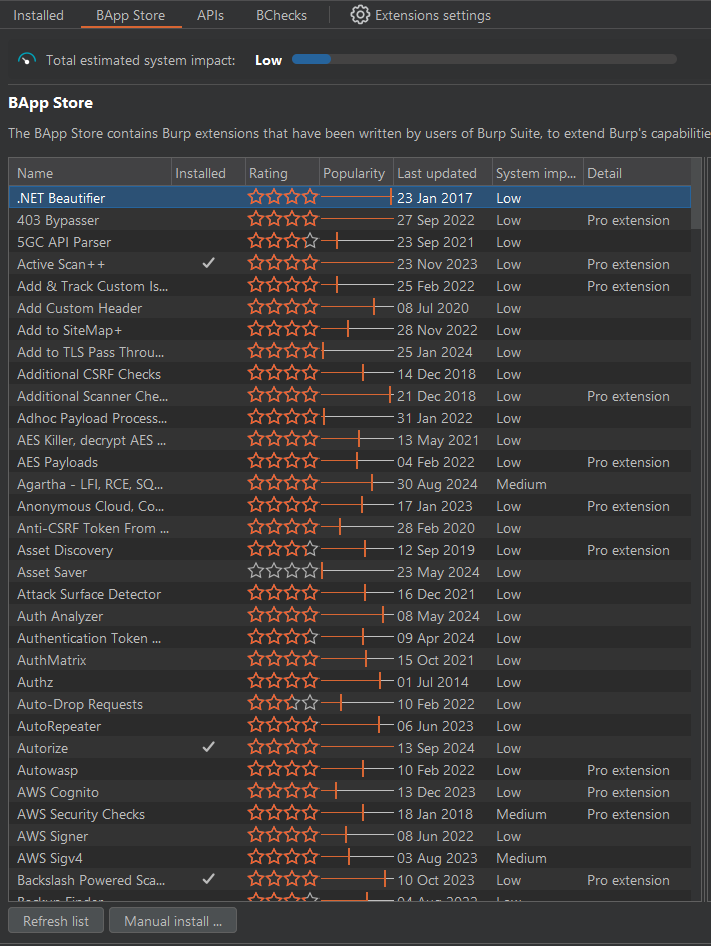
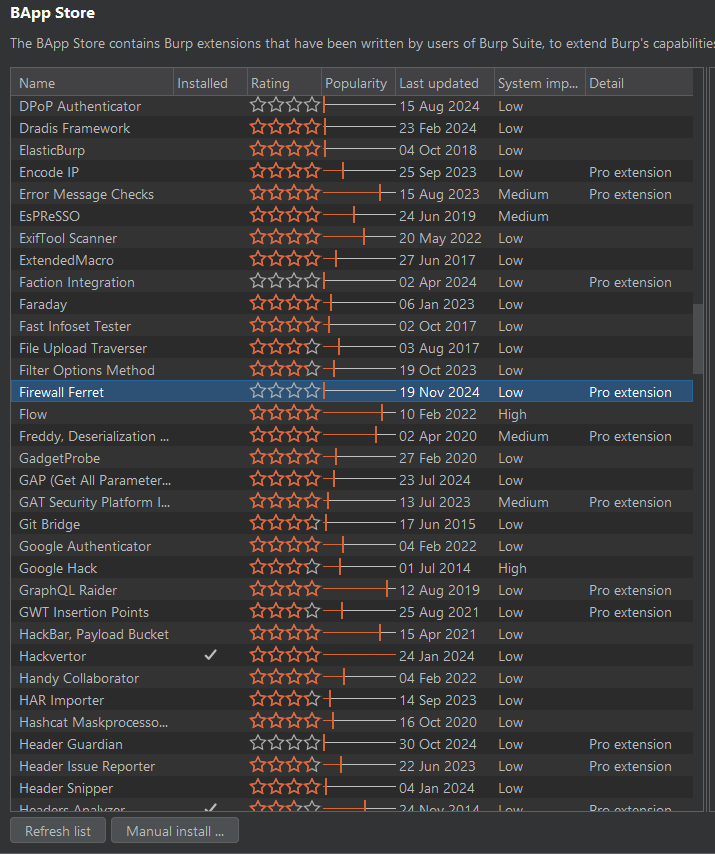
Updated image and text with portswigger updates

Changed region(s): [[0.0, 0.0, 1.0, 1.0], [0.8354, 0.6698, 0.9283, 0.7307], [0.2785, 0.7611, 0.3094, 0.7916]]

diff --git a/_posts/2024-09-13-Firewall Ferret Burp Suite Extension.md b/_posts/2024-09-13-Firewall Ferret Burp Suite Extension.md
@@ -36,19 +36,22 @@ Firewall Ferret significantly enhances Burp Suite’s default active scans by du
 --------------------------------------------
 ![Burp Suite BAPP Store](Burp_Suite_BAPP_Store.png){: .w-50 .right}
 
-Although Firewall Ferret was designed to be a powerful tool for testers, it may not find its way into Portswigger’s BAPP store anytime soon. As per Portswigger's guidance, they don’t plan to remove or replace any existing extensions in the BAPP store. Instead, they encourage developers to contribute to or improve existing projects rather than submit new ones.
+Although Firewall Ferret was designed to be a powerful tool for testers, it may not find its way into Portswigger’s BAPP store anytime soon. According to Portswigger's guidance, they do not plan to remove or replace any existing extensions in the BAPP store. Instead, they encourage developers to contribute to or improve existing projects rather than submit new ones.
 
-For those looking for a better WAF bypass tool, Firewall Ferret could be a viable replacement for **WAF Bypadd**, but users may need to download it manually from GitHub.
+### Update: Firewall Ferret Approved by Portswigger
+--------------------------------------------------
+
+Great news! Portswigger has approved Firewall Ferret, and it is now available in the BAPP store. You can find it here: [Firewall Ferret on BAPP Store](https://portswigger.net/bappstore/ca894f9bab6446f0aa7eac712a7b80ca) or within Burp Suite in the BApp store.
 
 ## How to Get Started
 ---------------------
 
-While Firewall Ferret isn’t currently available in the BAPP store, you can still easily install it:
+You can easily install Firewall Ferret by following these steps:
 
 1. **Download the Latest Release**  
-   Head over to the project’s [GitHub page](https://github.com/ahanel13/Firewall-Ferret) to download the latest release.
+  Head over to the project’s [GitHub page](https://github.com/ahanel13/Firewall-Ferret) to download the latest release.
 2. **Install in Burp Suite**  
-   Add the extension manually via Burp Suite’s Extensions tab, selecting **Firewall Ferret** as a Java extension.
+  Add the extension manually via Burp Suite’s Extensions tab, selecting **Firewall Ferret** as a Java extension.
 
 ## A Word on WAFs
 -----------------
